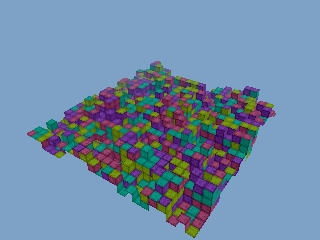
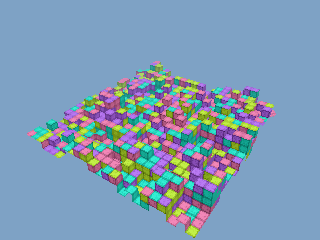
render3d: CreateMaterial starts non-metal as documented; layered vs ordinary colour test

Changed region(s): [[0.0625, 0.2333, 0.875, 0.9917]]

diff --git a/tests/OneGame.Render3D.Tests/LayeredColourTests.cs b/tests/OneGame.Render3D.Tests/LayeredColourTests.cs
@@ -1,0 +1,56 @@
+using RecursiveAI.OneGpu;
+
+namespace OneGame.Render3D.Tests;
+
+/// <summary>The same image drawn through an ordinary material and as a layer of a layered one must give the same pixels, lit, fogged and tinted.</summary>
+public class LayeredColourTests
+{
+    [Theory]
+    [InlineData(true, false)]
+    [InlineData(true, true)]
+    [InlineData(false, true)]
+    public void LayerPixelsEqualOrdinaryMaterialPixels(bool mipmaps, bool tinted)
+    {
+        const int w = 64, h = 32;
+        using var rig = new Rig(w, h, GpuFormat.Rgba16Float);
+        // A flat grass-like colour: the ordinary material filters linearly and the layered one nearest, so only a uniform image compares them.
+        byte[] image = [90, 160, 60, 255, 90, 160, 60, 255, 90, 160, 60, 255, 90, 160, 60, 255];
+        var tex = rig.Own(rig.Device.CreateTexture(new TextureDesc(2, 2, GpuFormat.Rgba8UnormSrgb, TextureUsage.Sampled | TextureUsage.CopyDestination) { Label = "plain" }));
+        rig.Device.WriteTexture(tex, 0, 0, image);
+        var plain = rig.Renderer.CreateMaterial("plain");
+        plain.SetTexture(MaterialSlot3D.BaseColor, tex);
+        var layered = rig.Renderer.CreateLayeredMaterial("layered", 2, 2, new ReadOnlyMemory<byte>[] { new byte[16], image }, mipmaps: mipmaps);
+        var colour = tinted ? new Vector4(0.8f, 0.9f, 0.7f, 1f) : Vector4.One;
+
+        MeshVertex3D[] Quad(float x, int layer) =>
+        [
+            new(new Vector3(x, 1, 0), Vector3.UnitZ, new Vector2(0, 0), colour, layer),
+            new(new Vector3(x + 2, 1, 0), Vector3.UnitZ, new Vector2(1, 0), colour, layer),
+            new(new Vector3(x + 2, -1, 0), Vector3.UnitZ, new Vector2(1, 1), colour, layer),
+            new(new Vector3(x, -1, 0), Vector3.UnitZ, new Vector2(0, 1), colour, layer),
+        ];
+        uint[] idx = [0, 3, 2, 0, 2, 1];
+        var scene = new Scene3D { Camera = Plane.TopDown(2), Samples = 1 };
+        scene.Environment.Intensity = 0.3f;
+        scene.Environment.Background = BackgroundMode.Color;
+        scene.Environment.BackgroundColor = Vector3.Zero;
+        scene.Post.Bloom = false;
+        scene.Post.ToneMapper = ToneMapper.None;
+        scene.Lights.Add(Light3D.Directional(new Vector3(0.3f, -0.4f, -1f), Vector3.One, 3f));
+        scene.Fog.Enabled = true;
+        scene.Fog.Color = new Vector3(0.5f, 0.6f, 0.8f);
+        scene.Fog.Start = 5;
+        scene.Fog.End = 30;
+        scene.Add(rig.Own(rig.Renderer.CreateMesh(plain, Quad(-2, 0), idx, "a")).Model);
+        scene.Add(rig.Own(rig.Renderer.CreateMesh(layered, Quad(0, 1), idx, "b")).Model);
+        var px = Plane.ReadAfterRender(rig, scene);
+        Vector3 At(int x, int y) { var i = ((y * w) + x) * 4; return new Vector3(px[i], px[i + 1], px[i + 2]); }
+        var a = At(16, 16);
+        var b = At(48, 16);
+        TestContext.Current.SendDiagnosticMessage($"mips={mipmaps} tinted={tinted}: ordinary {a}, layered {b}");
+        Assert.True(a.Length() > 0.05f);
+        // A lit, rough non-metal grass colour has real diffuse light: the old fully metallic default read about a third as bright.
+        Assert.True(a.Y > 0.15f, $"too dark: {a}");
+        Assert.True((a - b).Length() < 0.004f, $"ordinary {a}, layered {b}");
+    }
+}

diff --git a/src/OneGame.Render3D/DynamicMesh3D.cs b/src/OneGame.Render3D/DynamicMesh3D.cs
@@ -169,7 +169,9 @@ public sealed partial class Renderer3D
     {
         ArgumentNullException.ThrowIfNull(name);
         var owner = Own(new Model3D(Template, 0));
+        // The glTF default is fully metallic, which has no diffuse light; the documented start is a rough non-metal.
         var constants = BuildMaterial(new GltfMaterial());
+        constants.P0.X = 0f;
         constants.BaseColor = baseColor ?? Vector4.One;
         constants.P1.X = alphaCutoff;
         constants.P1.Y = (float)(int)alpha;

diff --git a/CHANGELOG.md b/CHANGELOG.md
@@ -20,6 +20,7 @@ All notable changes to onegame are listed here. The format follows [Keep a Chang
 - `GameHost` and `GameOptions.Host`: the window, graphics device and swapchain of a windowed game can outlive one `GameInstance`, so a process that runs several games in a row starts each later one drawing at once. `GameApp.Run` uses `GameHost.Shared` (`GameApp.ReuseWindow = false` opts out; `GameHost.Release()` closes it early; it also closes at process exit). On macOS the runs are on the main thread, as AppKit requires; at process exit the window is left to the system, and a game may call `GameHost.Release()` on the main thread to close it earlier (on an Apple M2 runs 2 and 3 draw their first frame in 11-33 ms and the process leaves in 10-29 ms either way). A window the player closed is replaced, and nothing but the window, device and swapchain carries over. See `docs/interfaces/host-lifetime.md`.
 - `GameInstance.SwitchConnection(ConnectOptions?)`: closes the server connection and starts a fresh session (a replica of another scope or server, or a new local world) on the running instance, keeping the window, device and renderers.
 - `PlatformApp.ResetForNewRun()`: drops queued events, held input and a pending quit request, keeping the windows.
+- `Renderer3D.CreateMaterial` now starts as the rough non-metal its documentation describes (metallic 0). It started fully metallic, the glTF default, which has no diffuse light, so lit meshes read dark and desaturated; set `Material3D` textures and colours as before. Layered materials start the same way.
 - Layered materials for blocky worlds: `Renderer3D.CreateLayeredMaterial(name, width, height, layers, ...)` builds a `Material3D` whose base colour is a texture array (nearest, repeating inside each layer, no blending between layers), and each vertex chooses its layer with `MeshVertex3D.Layer` (a new init property and a five-argument constructor; for glTF meshes, the first component of `TEXCOORD_1`). One material and one draw per chunk replace one per texture per chunk: a 36-chunk, 32-texture test scene goes from 1,151 draws to 36. `Material3D.LayerCount`. Every material's bind group gains two bindings (set 2, bindings 11 and 12: a one-texel placeholder array and a sampler); the 3D pixel shaders read the base colour through one function, so existing materials draw as before.
 
 ### Changed
